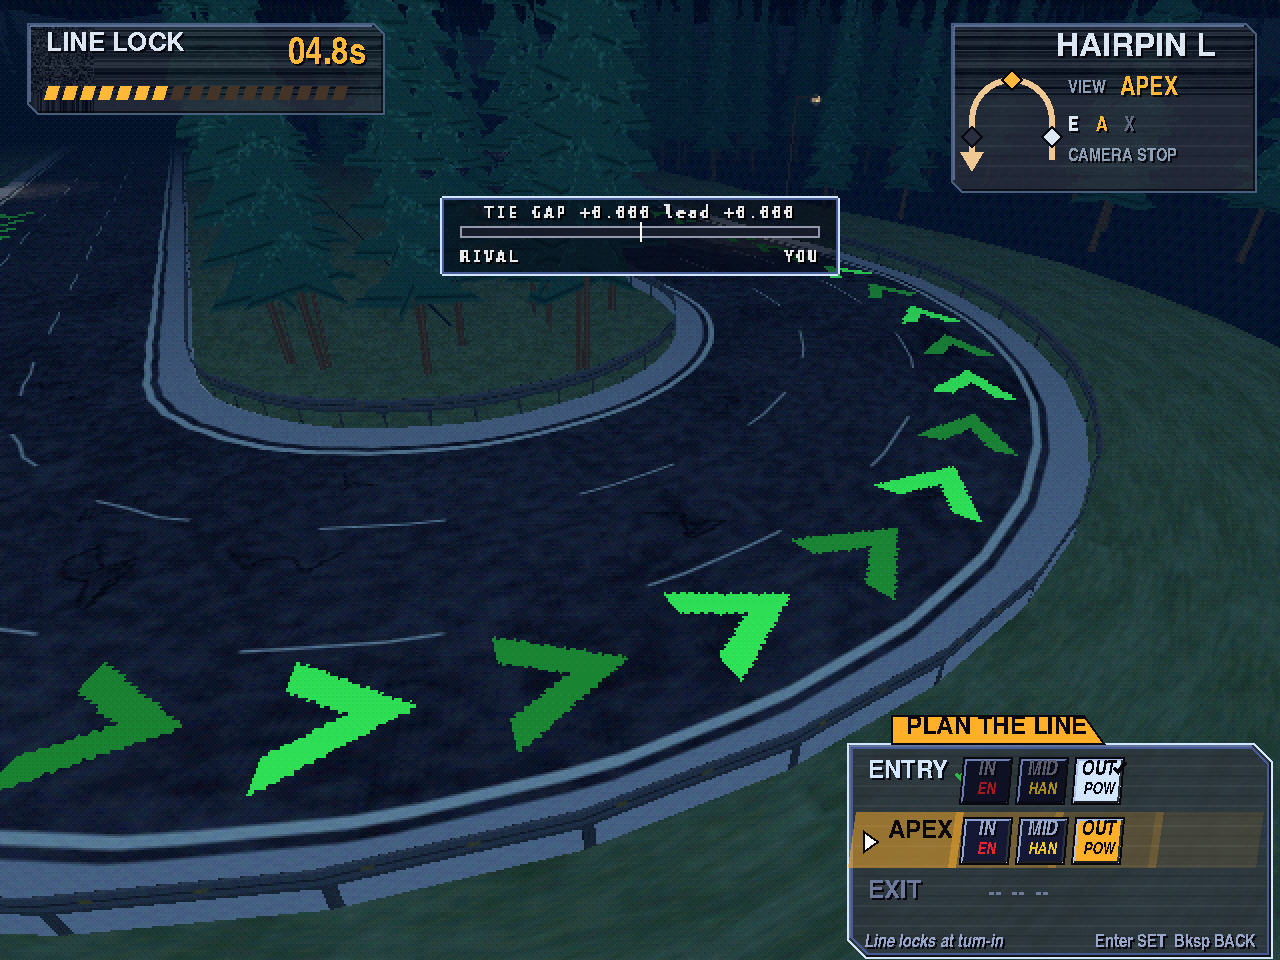
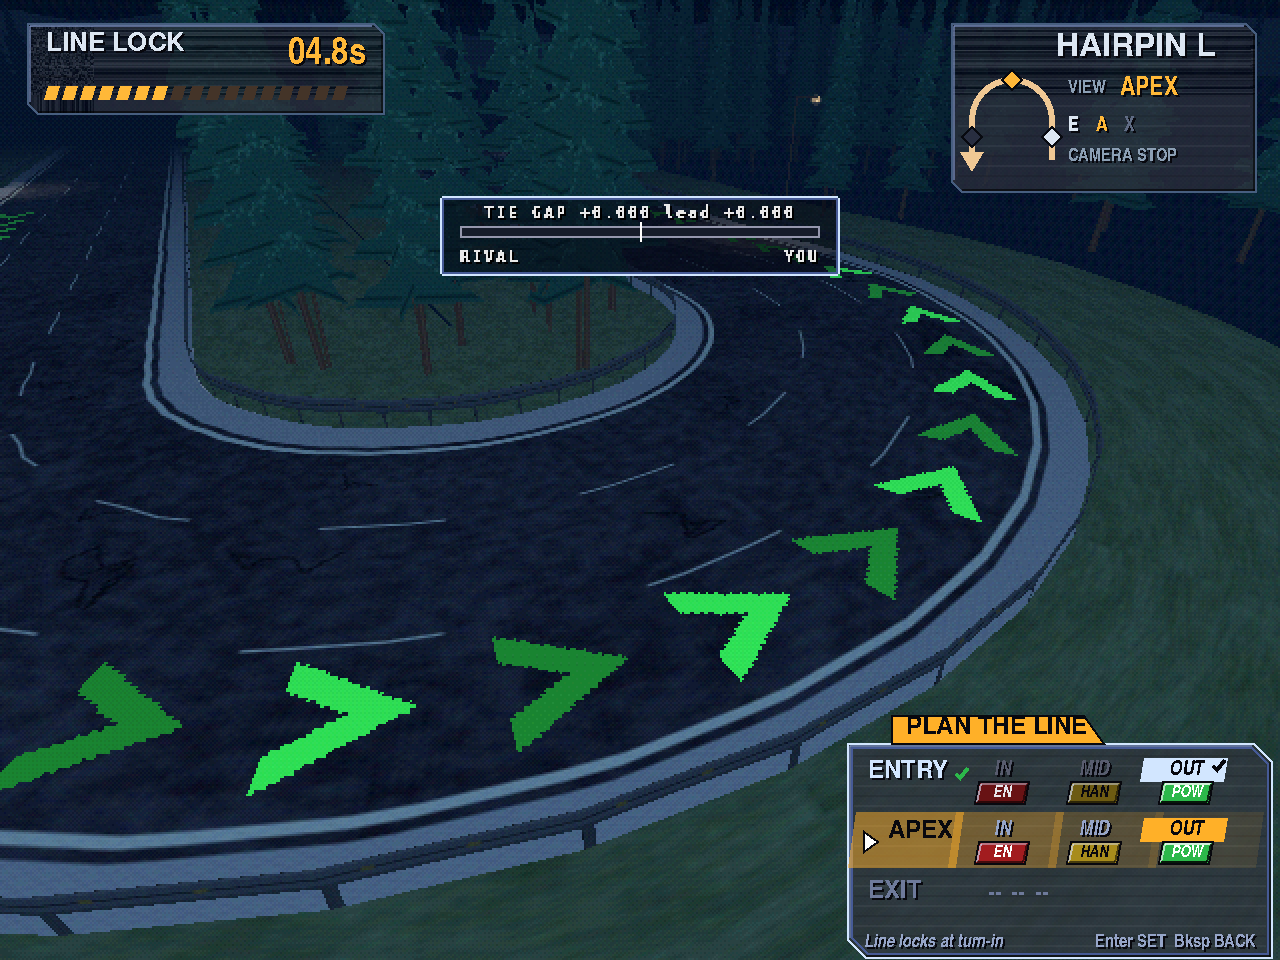
Art: frame the stat under the OUT/MID/IN position text
Austin 2026-11-12: "The stat should be framed under the position text." Position labels stay unframed; POW/HAN/EN sits in a small colour-filled plate-style box underneath. Selected highlight is behind the position text; lock tick is clear of the letters and the stat box.

Changed region(s): [[0.75, 0.7812, 0.9688, 0.9062]]

diff --git a/unapproved/arthur/mockups/line_preview/README.md b/unapproved/arthur/mockups/line_preview/README.md
@@ -39,7 +39,7 @@ One contact sheet, plus the individual PNGs. Implied follow-on segments are draw
 
 ## HUD layout (these frames only)
 
-Combined PLAN THE LINE panel, bottom right. Three phase rows (ENTRY, APEX, EXIT). The active row is amber-highlighted with a caret. Every row labels the choices OUT / MID / IN (left-corner on-screen order on this hairpin), each with a small framed stat chip (OUT · POW, MID · HAN, IN · EN). Each chip has a bold, bevelled, pixel-hard plate-style border, selected and unselected; the selected highlight stays inside the frame. The pick itself is the stat. Locked rows highlight the chosen lane chip with a tick; unselected chips are dimmed. The hovered choice on the active row is the highlighted chip. Pending rows show dashes. There is no plain POW / HAN / EN stance group and no second tag chip. The panel is slimmed and shifted down and to the right (pass 4) so it does not cover the MX5 in the chase shot. The race-split / tie-gap bar sits at the top centre, directly under the REAR VIEW label (the same slot when the mirror is off at the Apex and Exit stops). Gordon's files are untouched; this is only in the mockup HUD copies.
+Combined PLAN THE LINE panel, bottom right. Three phase rows (ENTRY, APEX, EXIT). The active row is amber-highlighted with a caret. Every row labels the choices OUT / MID / IN (left-corner on-screen order on this hairpin), each with a small stat chip (OUT · POW, MID · HAN, IN · EN). The position text is unframed; directly under it the stat sits in its own small framed box (pixel-hard plate-style border, filled in the stat colour: POW green, HAN yellow, EN red). There is no frame around the whole chip. The selected choice has a highlight behind the position text and a brighter stat frame. The pick itself is the stat. Locked rows mark the chosen chip with a tick to the right of the position text, clear of the stat box; unselected chips are dimmed. The hovered choice on the active row is the highlighted chip. Pending rows show dashes. There is no plain POW / HAN / EN stance group and no second tag chip. The panel is slimmed and shifted down and to the right (pass 4) so it does not cover the MX5 in the chase shot. The race-split / tie-gap bar sits at the top centre, directly under the REAR VIEW label (the same slot when the mirror is off at the Apex and Exit stops). Gordon's files are untouched; this is only in the mockup HUD copies.
 
 Pipeline: 3D at 640×480 with no AA, then RGB555 + 4×4 Bayer, then one 2× nearest upscale. The HUD is composited after that, drawn sharp and pixel-hard at 1280×960 (no font AA, 2 px hard shadow). Plates use a noisy fill, a hard bevel and light banding, with heavier titles, in a Racing Lagoon / Gran Turismo 2 direction.
 

diff --git a/design/art/art_direction.md b/design/art/art_direction.md
@@ -281,7 +281,7 @@ segment's stat colour, solid (**POW** #2CB84A, **EN** #E8282C, **HAN** #F0C828).
 the line; a slight brightness ramp along a segment is fine. The hovered segment uses a lighter or pulsed variant.
 No glow or soft edges. Purely visual (Austin 2026-11-12): it does not
 affect scoring and has no sim/ values. Where the chevrons sit (Arthur, placeholder until Austin approves; earlier draft was flipped): the **POW** segment holds the outer line of the corner (drawn on the OUT lane), the **EN** segment cuts across the full lane width to the inner line (drawn on the IN lane), and the **HAN** segment runs mid-lane (drawn on the MID lane); each segment starts from the previous end point.
-The PLAN THE LINE panel (bottom right in the line-preview frames) has ENTRY, APEX and EXIT rows. Every row labels the choices **OUT / MID / IN**, each with a small stat chip (**OUT · POW**, **MID · HAN**, **IN · EN**), the same style on all three rows. Every chip has its own framed, bevelled, pixel-hard border in the late-90s plate style; unselected chips are framed too, and the selected chip keeps its highlight inside the frame. Apex and Exit do not use plain POW / HAN / EN labels. The pick itself remains the stat (behind the screen, B.5 naming).
+The PLAN THE LINE panel (bottom right in the line-preview frames) has ENTRY, APEX and EXIT rows. Every row labels the choices **OUT / MID / IN**, each with a small stat chip (**OUT · POW**, **MID · HAN**, **IN · EN**), the same style on all three rows. The position text (OUT / MID / IN) is unframed; directly under it the stat (POW / HAN / EN) sits in its own small framed box with a pixel-hard plate-style border, filled in the stat colour (POW green #2CB84A, HAN yellow #F0C828, EN red #E8282C). There is no frame around the whole chip. The selected choice is marked by a highlight behind the position text and a brighter stat frame. Apex and Exit do not use plain POW / HAN / EN labels. The pick itself remains the stat (behind the screen, B.5 naming).
 
 ### B.5a Corner playback: line vs line [APPROVED 2026-11-11]
 During the corner playback cinematic, show the LINE LOCKED panel with two rows, YOU and RIVAL, and both full 3-card
